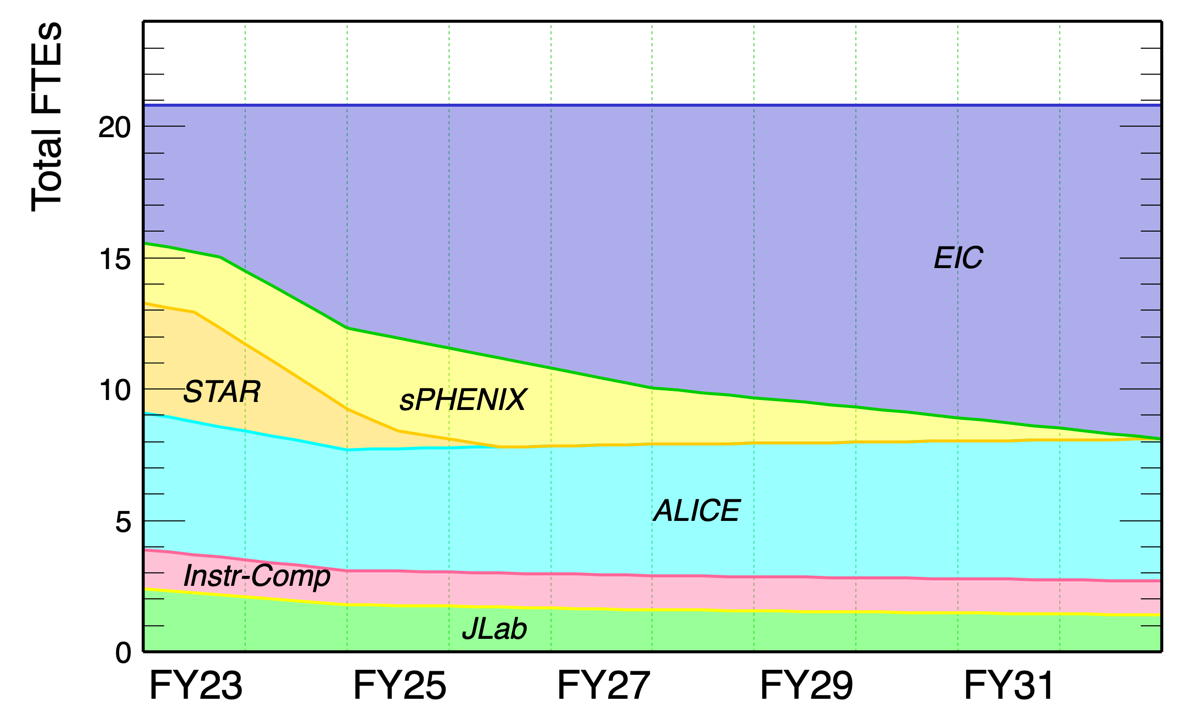
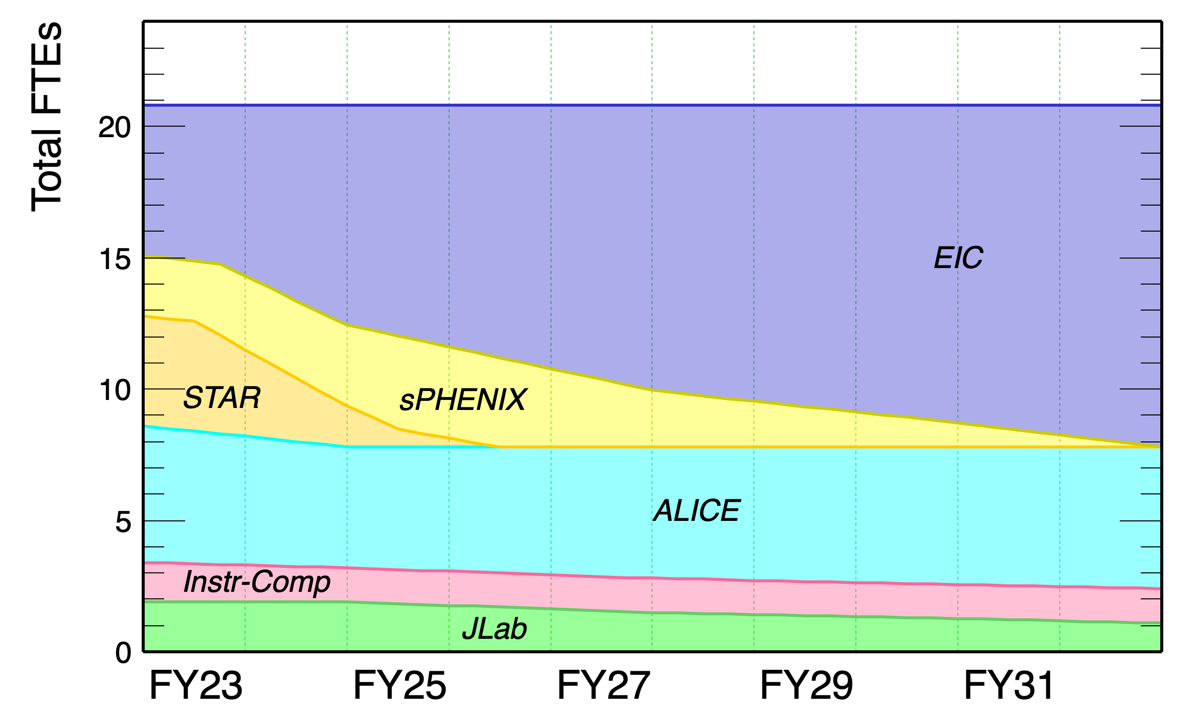
final update for Reiner's budget briefig (Feb. 07)

diff --git a/2022_StrategyPlan/makePlot2.C b/2022_StrategyPlan/makePlot2.C
@@ -92,7 +92,7 @@ void makePlot2(int config=0)
   
   TGraph *gr[NP];
   const Int_t kColor[NP] = {kGreen, kPink-4, kCyan, kOrange, kYellow, kBlue-3};
-  const Int_t kColorLine[NP] = {kYellow, kPink-4, kCyan, kOrange, kGreen+1, kBlue-3};
+  const Int_t kColorLine[NP] = {kGreen-6, kPink-4, kCyan, kOrange, kYellow+1, kBlue-3};
   
   Double_t yAve[NP][3], y0[NP];
   const Int_t aveEdge[3] = {8, 20, 40};
@@ -178,7 +178,7 @@ void makePlot2(int config=0)
   }
 
   const Double_t xPos[NP] = {12.5, 1.5, 20, 1.5, 10, 31};
-  const Double_t yPos[NP] = {0.5, 2.5, 5., 9.5, 9.2, 14.6};
+  const Double_t yPos[NP] = {0.5, 2.3, 5., 9.3, 9.2, 14.6};
   
   for(int i=0;i<NP;i++) {
     double yt = yPos[i] * sc;

diff --git a/2022_StrategyPlan/personpower_ME.C b/2022_StrategyPlan/personpower_ME.C
@@ -20,7 +20,8 @@ void personpower_ME(const Int_t config=0)
     {{{0., 2.0}, {8., 1.8}, {20., 1.6}, {40, 1.6}}},
     // CE
     //    {{{0., 1.7}, {8., 1.7}, {20., 1.7}, {40, 1.3}}}
-    {{{0., 2.4}, {8., 1.8}, {20., 1.6}, {40, 1.4}}}  // 2 FTEs added by for the first two years
+    //    {{{0., 2.4}, {8., 1.8}, {20., 1.6}, {40, 1.4}}}  // 2 FTEs added by for the first two years
+    {{{0., 1.9}, {8., 1.9}, {20., 1.5}, {40, 1.1}}}  // 2 FTEs added by for the first two years
   };
   
   Double_t frac[NP][NN][2];
